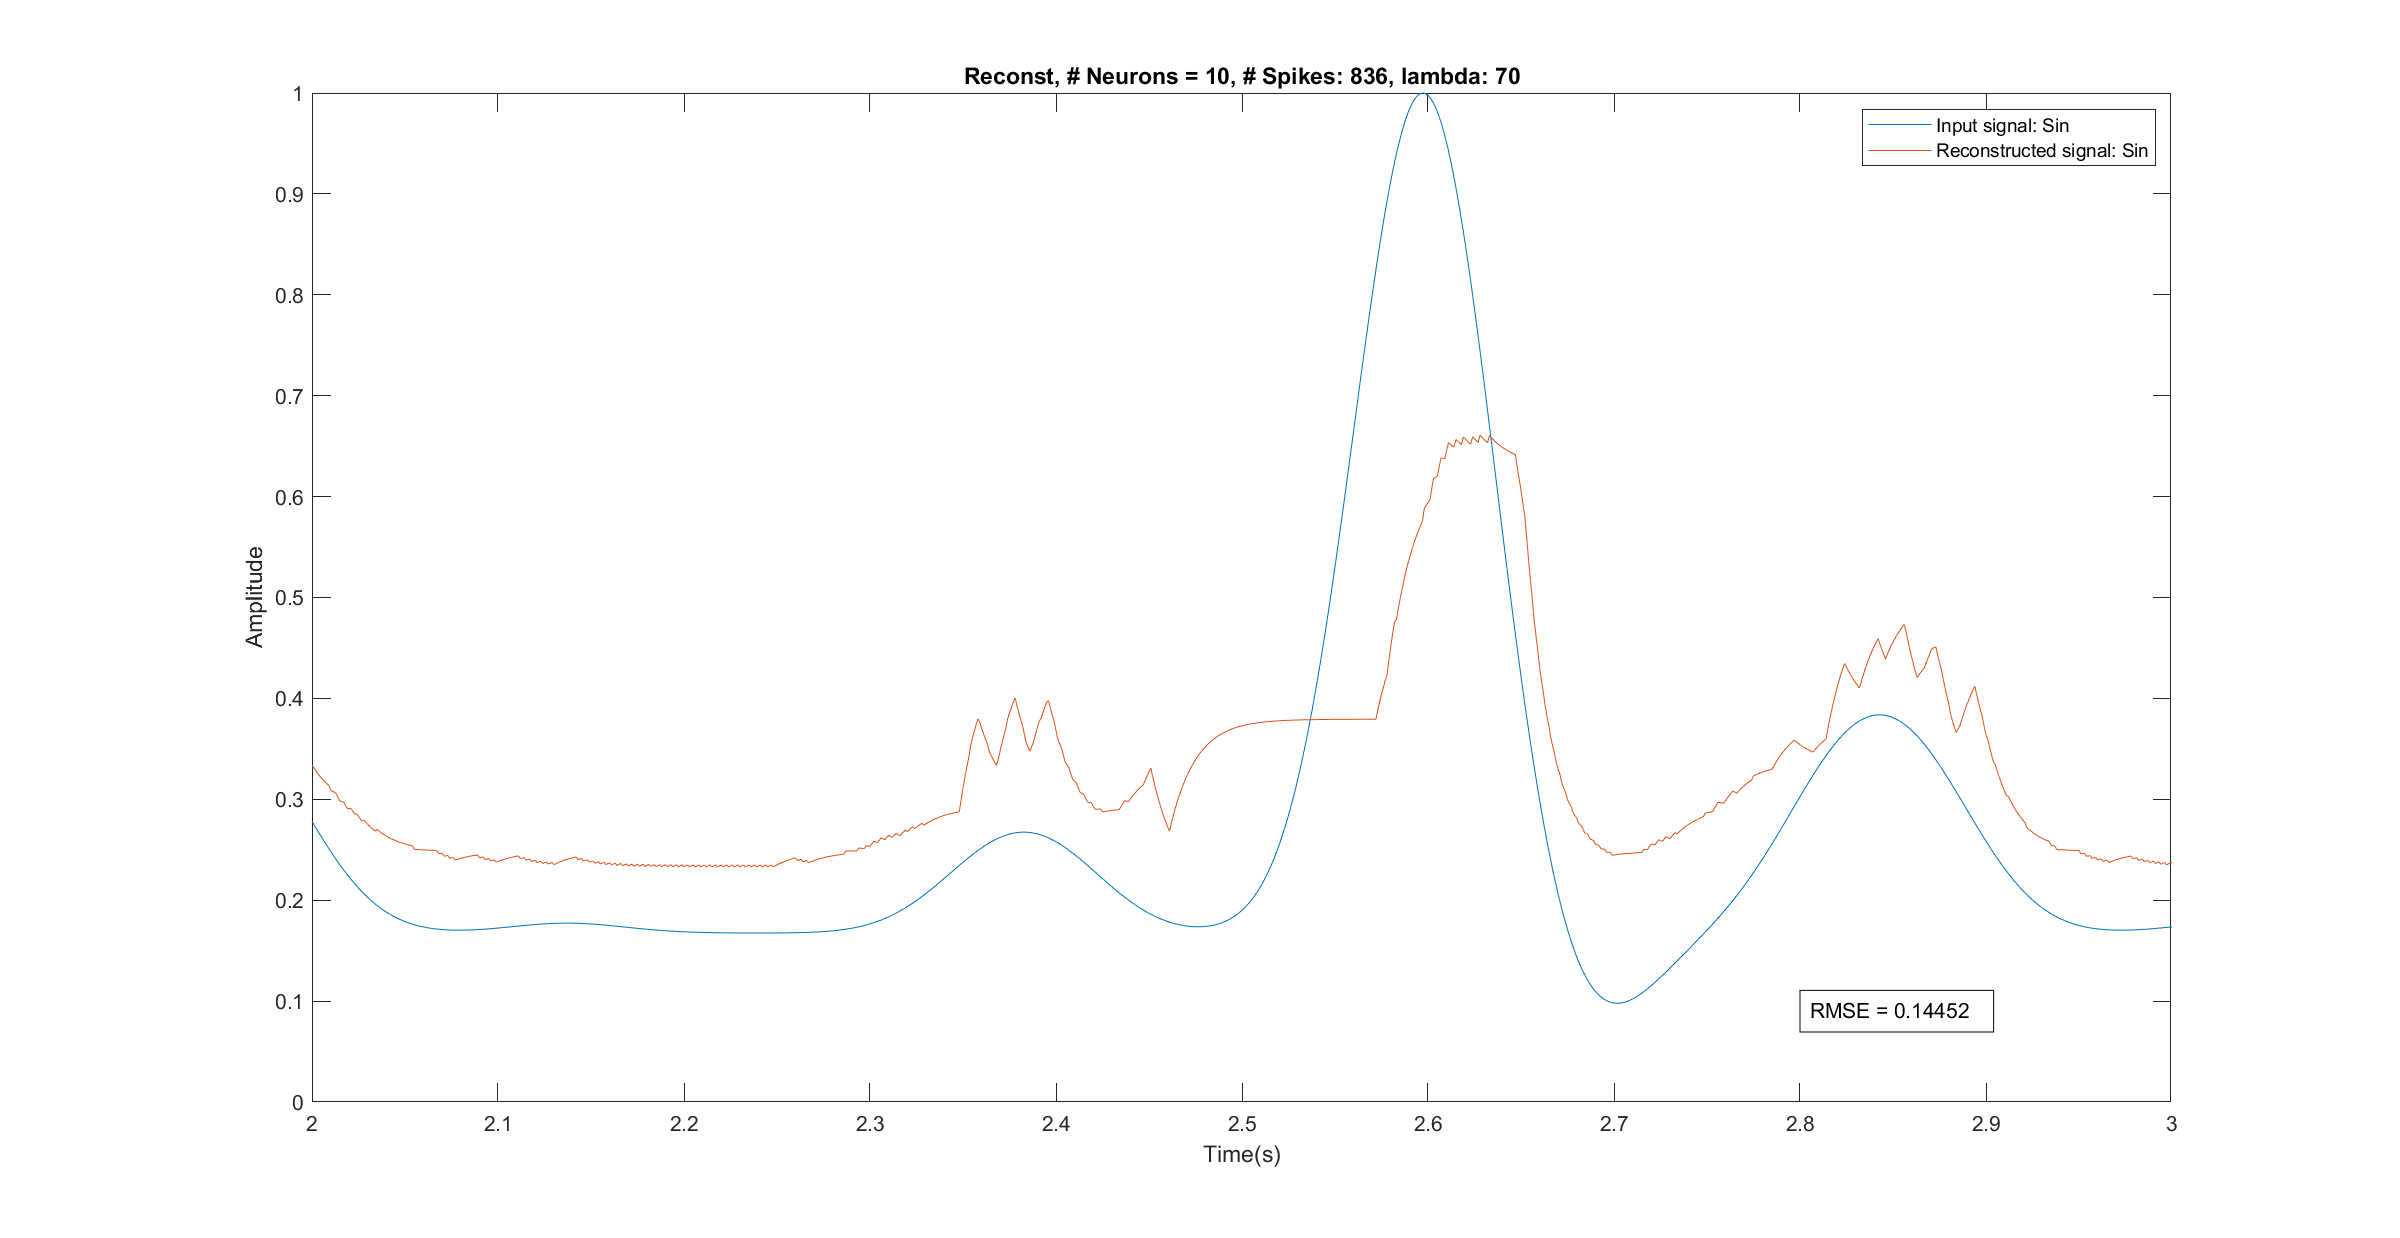
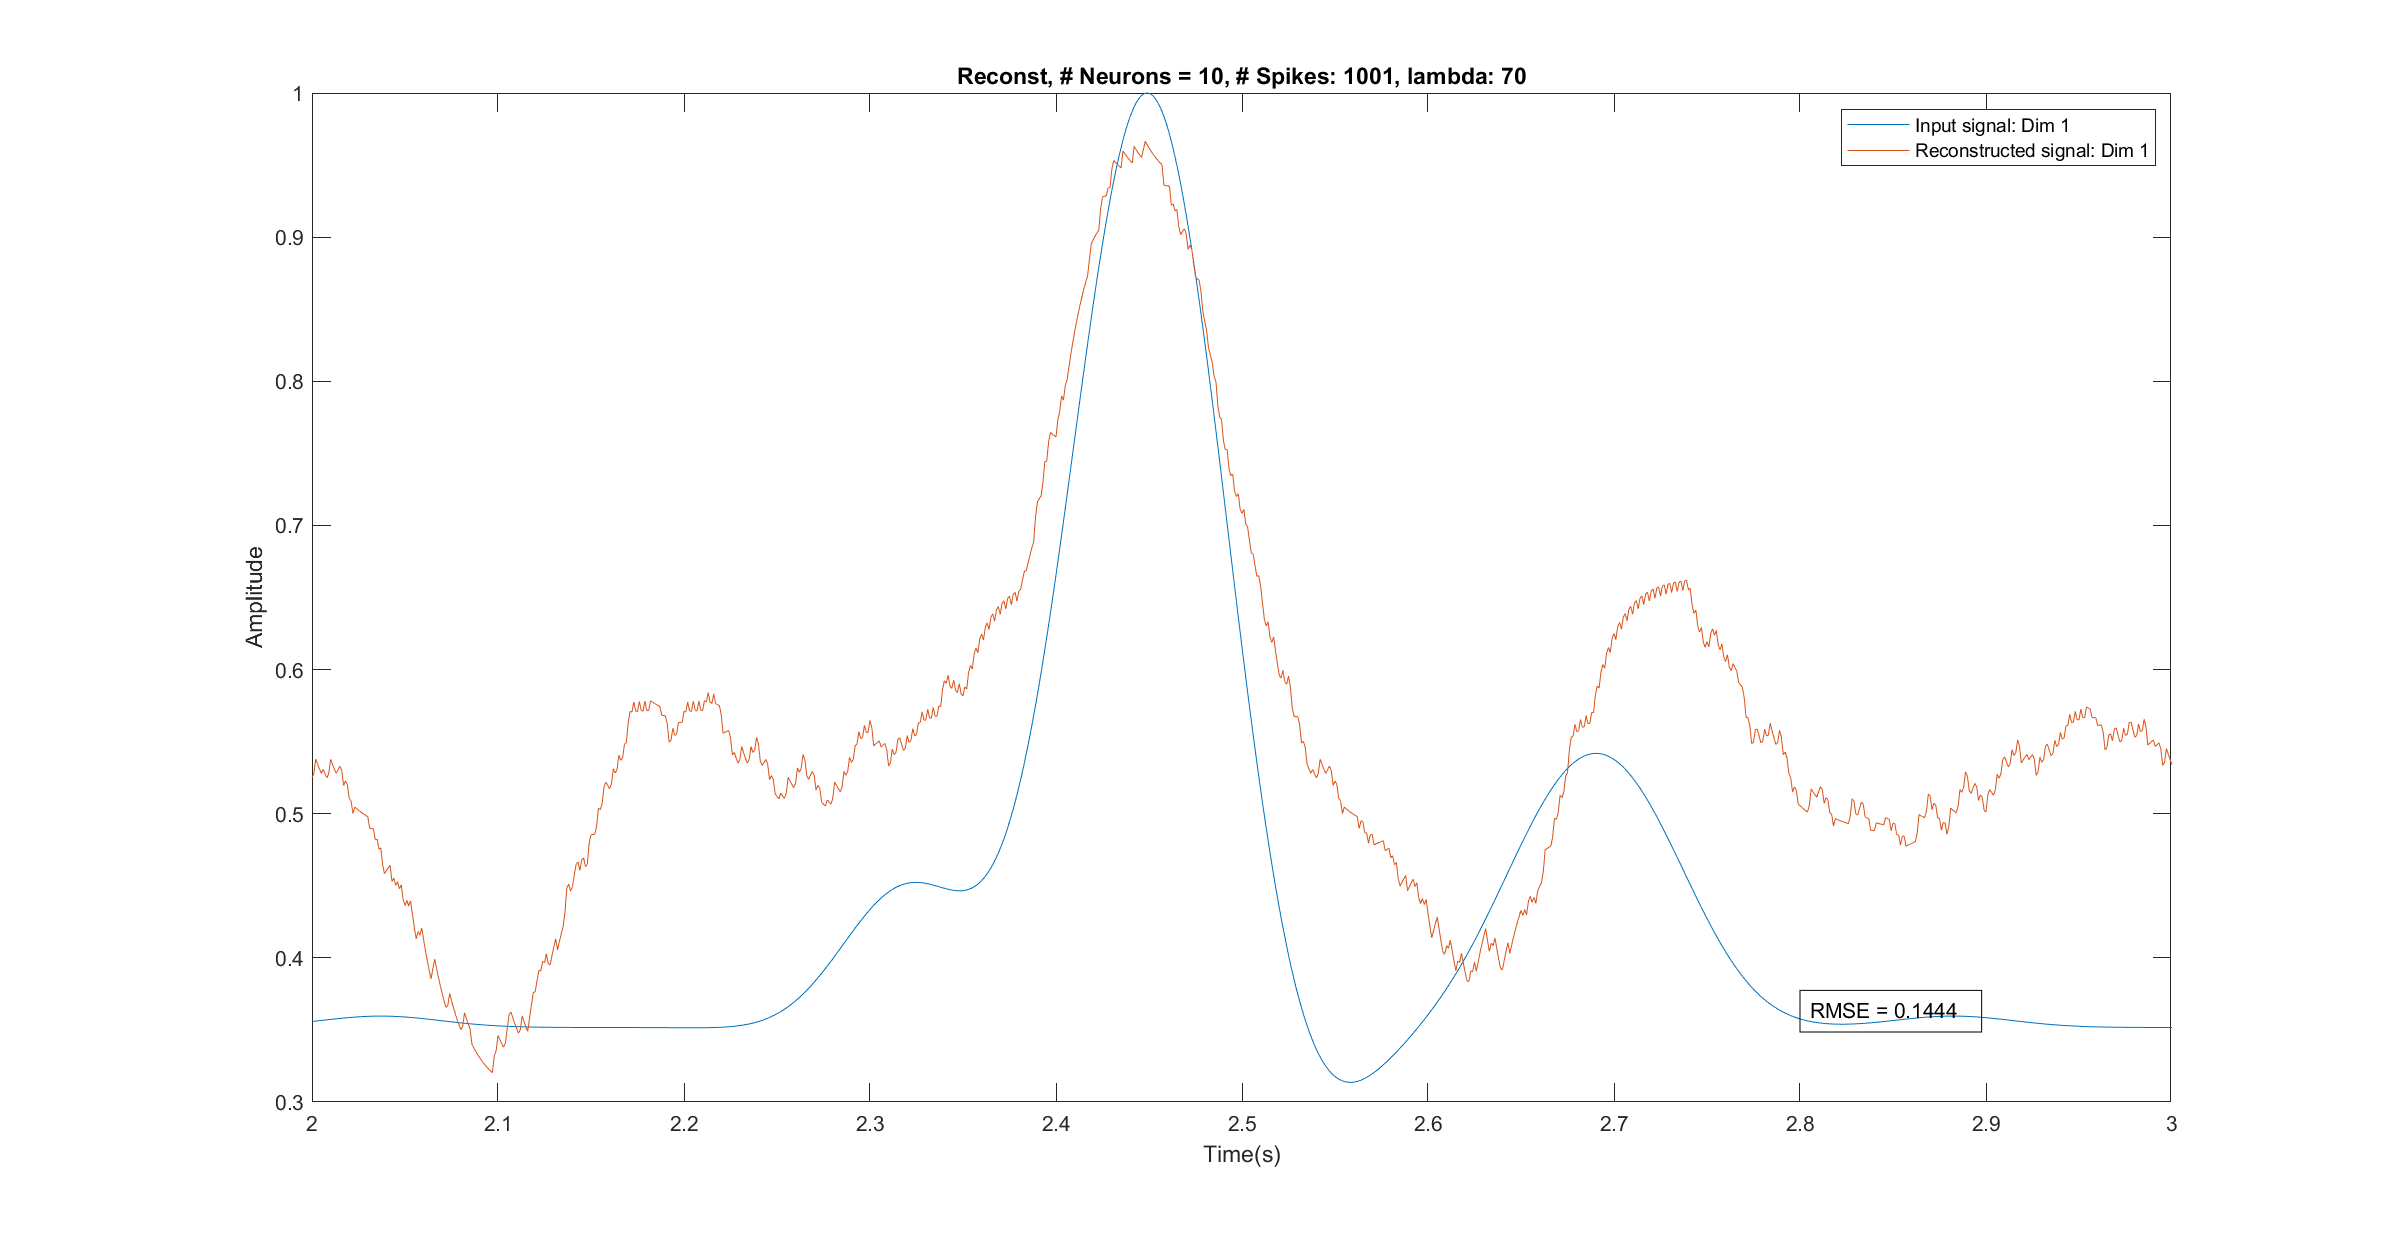
Adding ECG Signal generation and reconst

diff --git a/optimalEncoding_matlab/ecg_forked/twoDWhite.m b/optimalEncoding_matlab/ecg_forked/twoDWhite.m
@@ -3,7 +3,7 @@ clear;clc;
 Nneuron= [10 20 30];
 Nx=2;       %dimesnion of the input
 
-lambda= 40:2:90;    %membrane leak
+lambda= 77;    %membrane leak
 dt=0.001;     %time step
 
 epsr=0.001;  % earning rate of the recurrent connections
@@ -22,7 +22,6 @@ for i = 1:length(Nneuron)
     Ci=-0.2*(rand(Nneuron(i),Nneuron(i)))-0.5*eye(Nneuron(i)); %the initial recurrent conectivity is very weak except for the autapses
 
     Thresh=0.5; %vector of thresholds of the neurons
-
 
     %[Fs,Cs,F,C,Decs,ErrorC(i,:)]=Learning(dt,lambda,epsr,epsf,alpha, beta, mu, Nneuron(i),Nx, Thresh,Fi,Ci);
     [~,~,~,~,~,ErrorC(i,:), RMSEDec, MeanPrate(i,:)]=Learning(dt,lambda,epsr,epsf,alpha, beta, mu, Nneuron(i),Nx, Thresh,Fi,Ci);

diff --git a/optimalEncoding_matlab/ecg_forked/Learning.m b/optimalEncoding_matlab/ecg_forked/Learning.m
@@ -209,7 +209,7 @@ plot(time, OptimalRecAligned(1,2000:3000));
 %plot(time, OptimalInputAligned(2,2000:3000));
 %plot(time, OptimalRecAligned(2,2000:3000));
 SpikeTotalInFig = sum(spikeOutputs(OptimalIdx,:,2000:3000),'all');
-lgd = legend('Input signal: Sin','Reconstructed signal: Sin', 'Input signal: Cos','Reconstructed signal: Cos');
+lgd = legend('Input signal: Dim 1','Reconstructed signal: Dim 1', 'Input signal: Dim 2','Reconstructed signal: Dim 2');
 xlabel("Time(s)")
 ylabel("Amplitude");
 GraphTitle = "Reconst, # Neurons = " + num2str(Nneuron) + ", # Spikes: " + num2str(SpikeTotalInFig) + ", lambda: " + num2str(lambda); 
